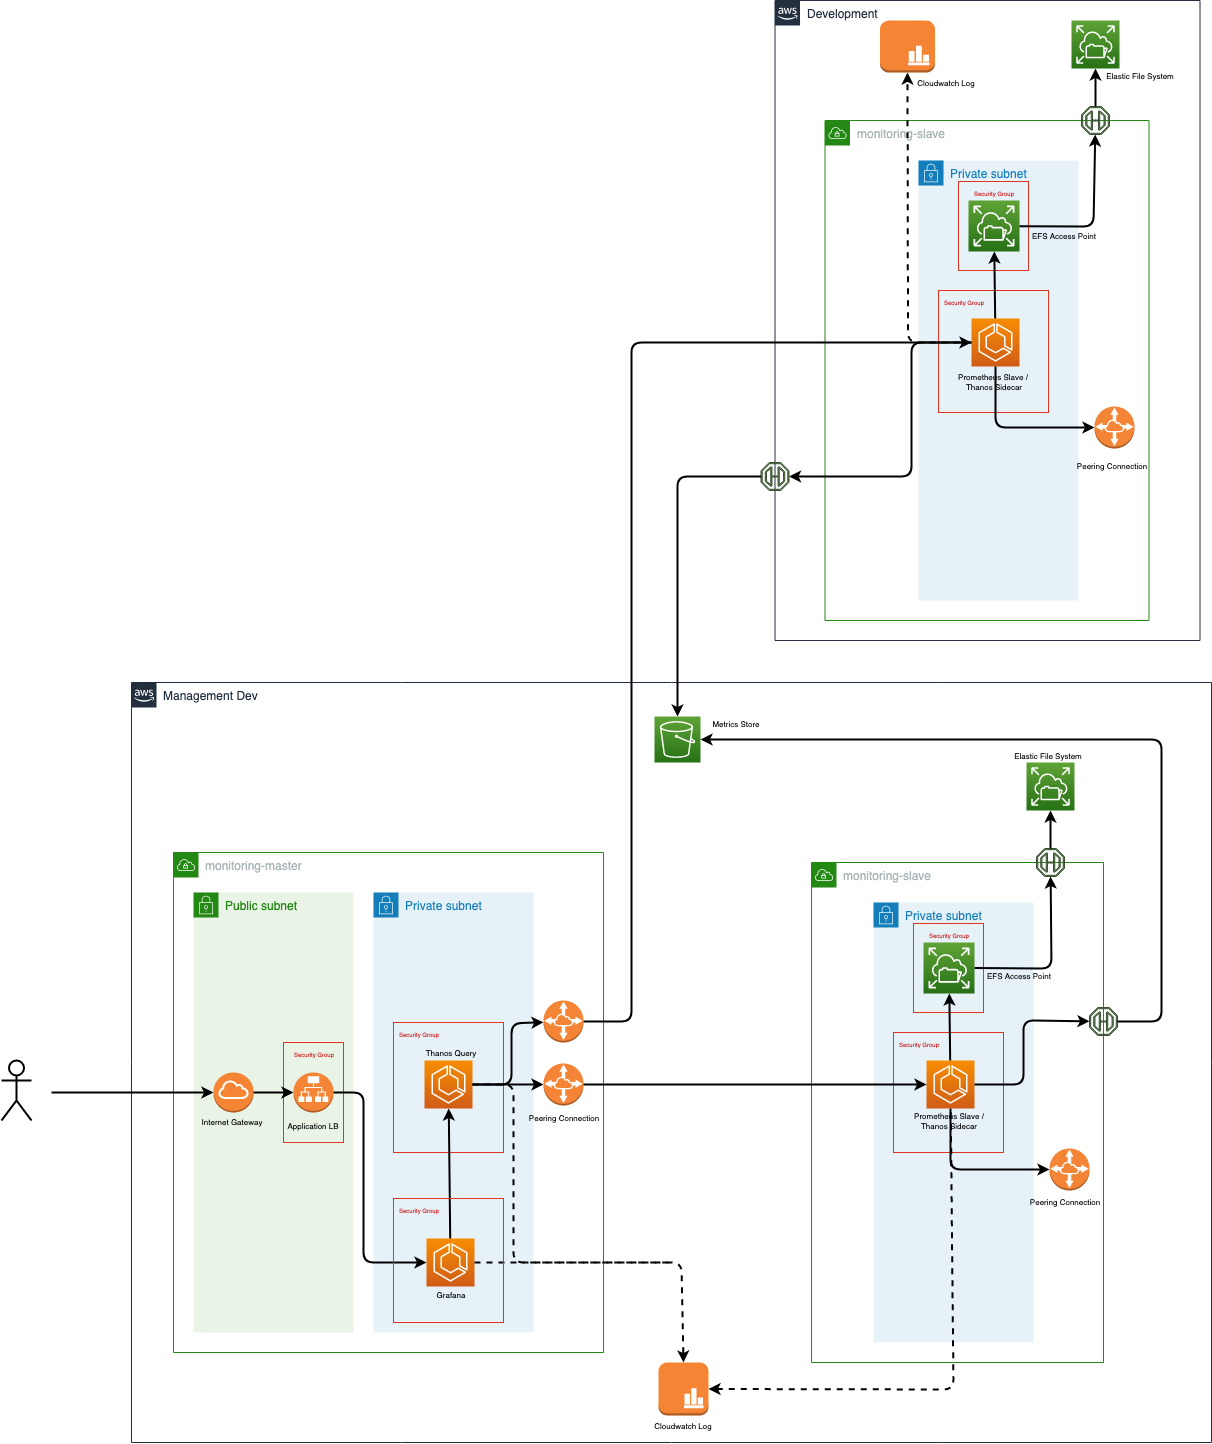
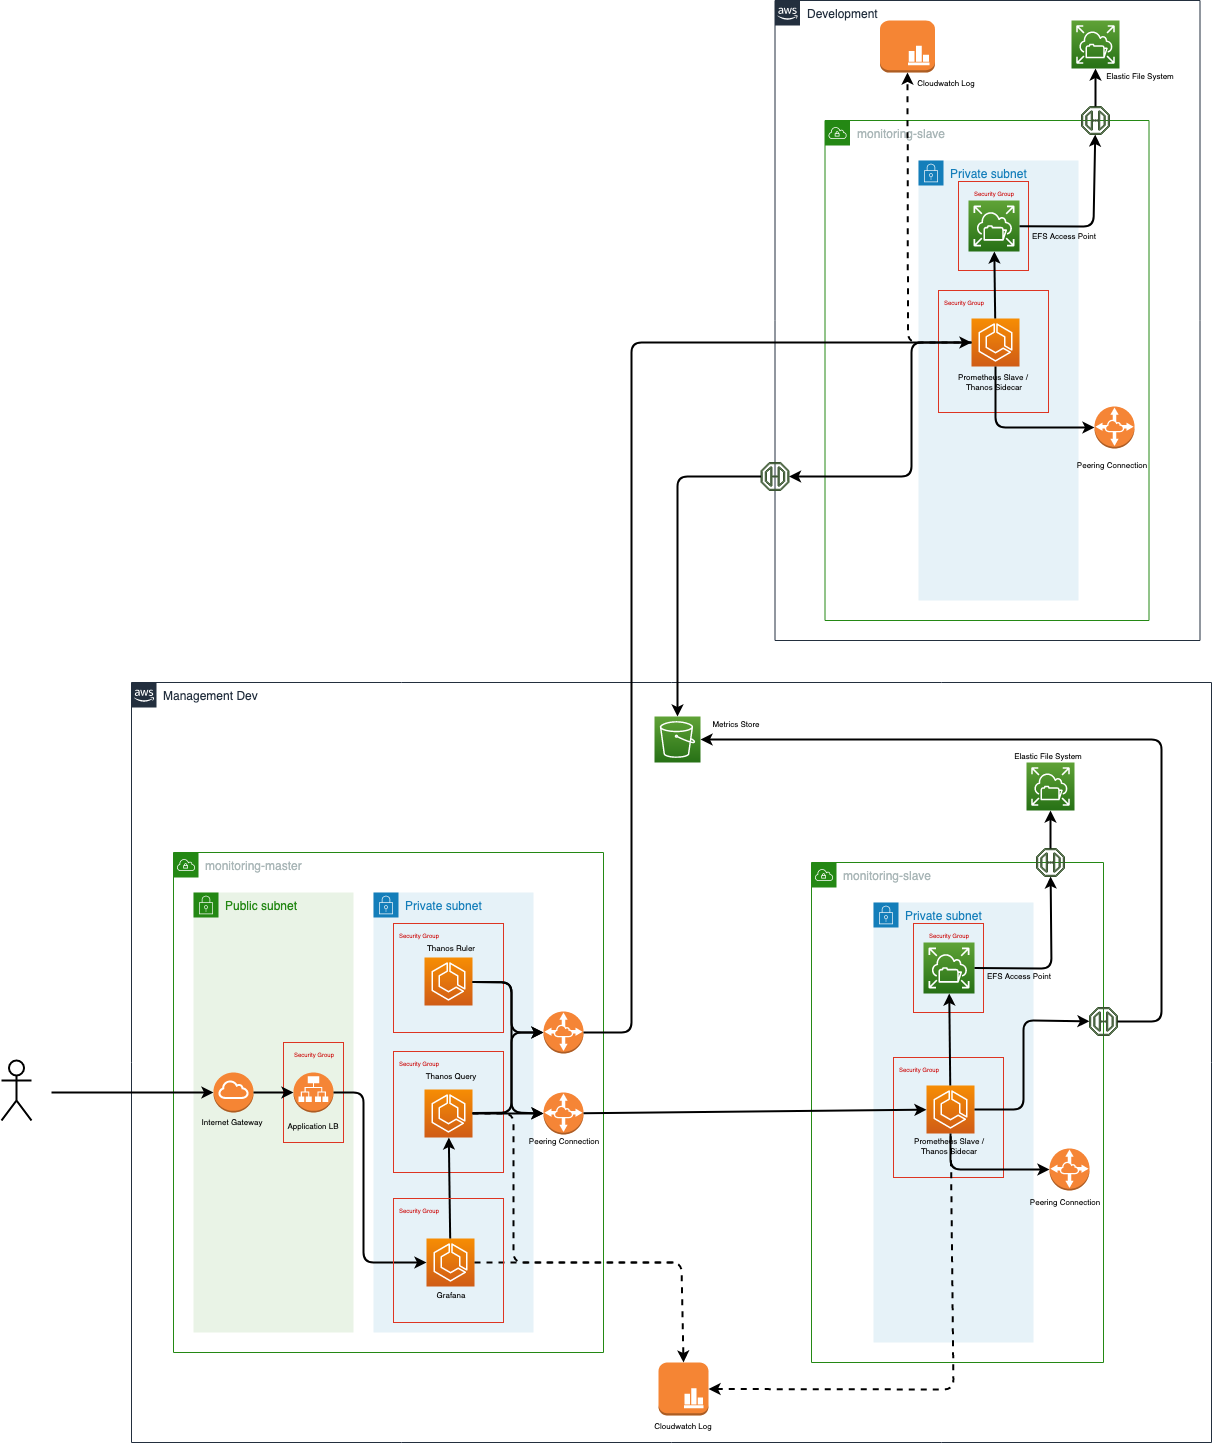
Updating the picturre of current state and creating tobe to include thanos ruler

diff --git a/README.md b/README.md
@@ -74,5 +74,5 @@ We are currently working on updating the current infrastructure Thanos, and will
 
 ## Current Architecture
 
-![Current Architecture](docs/metrics_architecture_240620.png)
+![Current Architecture](docs/metrics_architecture_070720.png)
 
